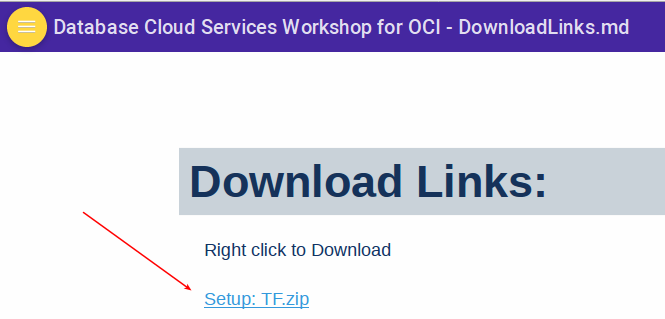
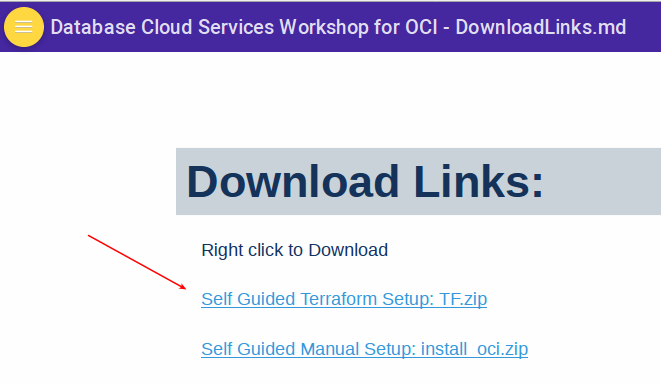
updates

diff --git a/workshops/dbcs-dba-oci/SG-setup-terraform.md b/workshops/dbcs-dba-oci/SG-setup-terraform.md
@@ -4,19 +4,19 @@ Update April 2, 2018
 
 This workshop requires several setups steps that are normally done in advance as part of an automated process prior to running the labs.  In cases where a customer wishes to run through the workshop themselves on their own without the support of Global Services Engineering (GSE) they must first walk through the following steps.  Note there are two setup options: The first is manual, and the second (this one) uses Terraform with the Oracle Terraform OCI Provider.  This is the recommended set as it has fewer steps and configures the cloud automatically.  We have left the manual one in place so you can see what the Terraform process will do for you.  This workshop was built on and for version 12.2 of the database, but will also work with 18c with minor changes.  The setup instructions and lab docs have notes at various places on what you need to do to run the workshop using 18c.
 
-### **STEP 1**: Install Git, Download the Terraform Configuration Files, and Install Terraform and the Oracle Terraform OCI-Provider
+### **STEP 1**: Download the Terraform Configuration Files, and Install Terraform and the Oracle Terraform OCI-Provider
 
--	Download and install git.
-```
-https://git-scm.com/download/win
-```
--	Clone the Terraform Repository.  We are cloning to d: (you can clone elsewhere).  Open a command window and enter the following.
-```
-git clone https://github.com/pcdavies/DatabaseCloudServiceForDBAsOCI.git
-```
-![](images/SG-setup-terraform/001.png)
+-	Download TF.zip
 
--	Extract the Terraform configuration files from the git above into your Terraform working directory.  In our case we are extracting from `d:\DatabaseCloudServiceForDBAsOCI\workshops\dbcs-dba\install\TF.zip` to `d:`.  De-select the Path.
+	![](images/SG-setup-terraform/001.png)
+
+	![](images/SG-setup-terraform/001.1.png)
+
+	![](images/SG-setup-terraform/001.2.png)
+
+	![](images/SG-setup-terraform/001.3.png)
+
+-	Extract the Terraform configuration files from the git above into your Terraform working directory.  In our case we are extracting from `TF.zip` to `d:`.  De-select the Path.
 
 	![](images/SG-setup-terraform/002.png)
 	
